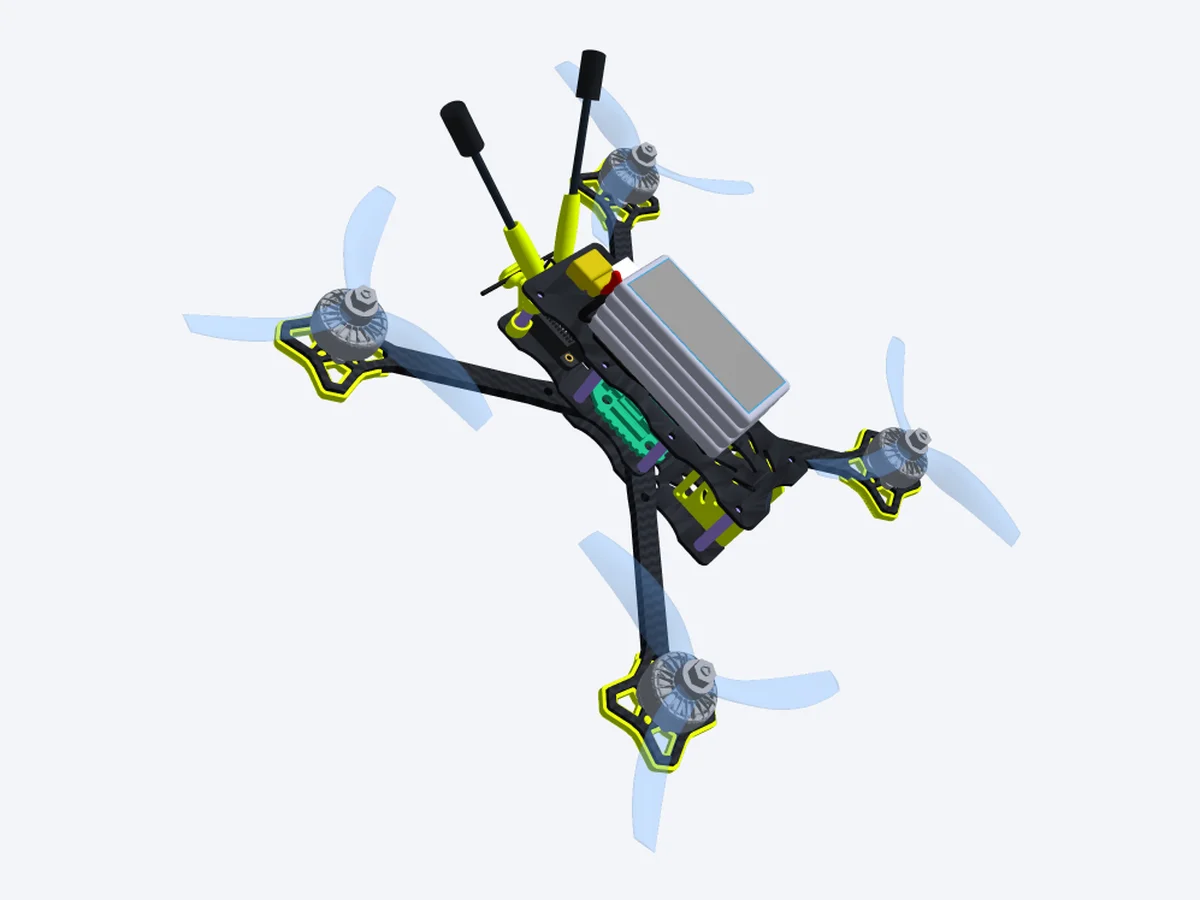
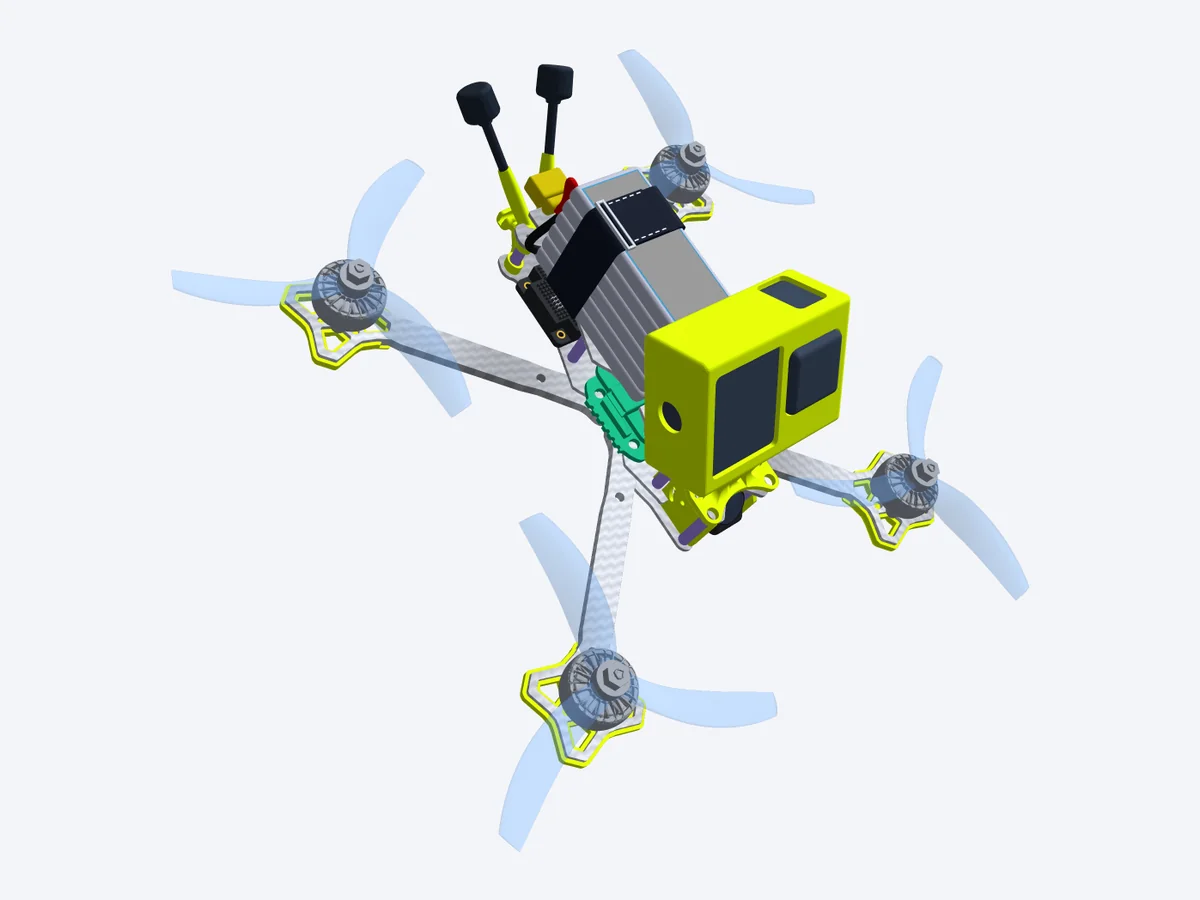
Site : photos avec GoPro, plus de 200 chassis

Changed region(s): [[0.1233, 0.0311, 0.8633, 0.9644]]

diff --git a/index.html b/index.html
@@ -118,7 +118,7 @@
       </div>
       <div class="chiffres">
         <div><b>1 000+</b><span>Composants réels à configurer</span></div>
-        <div><b>187</b><span>Châssis du classeur en 3D, avec plan coté</span></div>
+        <div><b>200+</b><span>Châssis en 3D, avec plan coté</span></div>
         <div><b>Vols réels</b><span>Calculs calés sur GPS et blackbox</span></div>
         <div><b>Calculateur</b><span>Formules physiques : poussée, traînée, vitesse, autonomie, intensités</span></div>
         <div><b>Garage</b><span>Vos configurations comparées côte à côte</span></div>
@@ -342,9 +342,9 @@
     <div class="fonction inverse">
       <div>
         <span class="badge">Châssis du classeur</span>
-        <h3>187 châssis en 3D, équipés et cotés</h3>
+        <h3>Plus de 200 châssis en 3D, équipés et cotés</h3>
         <ul>
-          <li><b>187 châssis du catalogue</b> en 3D, prêts à équiper.</li>
+          <li><b>Plus de 200 châssis</b> en 3D, prêts à équiper : 187 du catalogue, plus les châssis de référence TALKTRUE et les prototypes réglables.</li>
           <li><b>Composez votre drone</b> : moteurs, hélices, stack, VTX, caméra, récepteur, antennes, GPS, batterie, buzzer et condensateur se placent tout seuls.</li>
           <li><b>Accessoires des châssis</b> : supports de caméra, d'antenne et de condensateur, comme sur le Bando.</li>
           <li><b>Plan 2D coté (DXF)</b> à télécharger pour votre CAO.</li>
@@ -355,8 +355,8 @@
         <figure class="visuel"><img src="assets/guide/generique_equipe.webp" width="1200" height="900" loading="lazy" alt="Châssis générique du classeur équipé en 3D : électronique entre les plaques, batterie sur sa mousse"><figcaption>Générique équipé de vos composants</figcaption></figure>
         <figure class="visuel"><img src="assets/guide/generique_plan_cote.webp" width="1592" height="720" loading="lazy" alt="Plan 2D coté DXF d'un châssis générique"><figcaption>Plan 2D coté, prêt pour la CAO</figcaption></figure>
         <div class="duo" style="margin-top:14px">
-          <figure class="visuel"><img src="assets/nouveautes/bando_accessoires.webp" width="1200" height="900" loading="lazy" alt="Bando 5 pouces équipé en 3D : supports de caméra, support d'antenne et électronique"><figcaption>Bando 5″ équipé</figcaption></figure>
-          <figure class="visuel"><img src="assets/nouveautes/buzzer_condensateur.webp" width="1200" height="900" loading="lazy" alt="Bando 5 pouces vu de l'arrière : support d'antenne, électronique et batterie"><figcaption>Bando vu de l'arrière</figcaption></figure>
+          <figure class="visuel"><img src="assets/nouveautes/bando_accessoires.webp" width="1200" height="900" loading="lazy" alt="Bando 5 pouces équipé en 3D, châssis gris : GoPro sur son support, caméra DJI O4 dans ses supports, VTX, antennes et batterie LiPo 6S tenue par sa sangle"><figcaption>Bando 5″ équipé</figcaption></figure>
+          <figure class="visuel"><img src="assets/nouveautes/buzzer_condensateur.webp" width="1200" height="900" loading="lazy" alt="Bando 5 pouces vu de l'arrière, châssis gris : GoPro, support d'antenne, électronique et batterie LiPo tenue par sa sangle"><figcaption>Bando vu de l'arrière</figcaption></figure>
         </div>
       </div>
     </div>
@@ -371,8 +371,8 @@
         </ul>
       </div>
       <div class="duo">
-        <figure class="visuel"><img src="assets/guide/proto_plaques_towa.webp" width="1200" height="900" loading="lazy" alt="Prototype généré avec plaques au style du TOWA"><figcaption>Plaques style TOWA</figcaption></figure>
-        <figure class="visuel"><img src="assets/guide/proto_plaques_dessous.webp" width="1200" height="900" loading="lazy" alt="Dessous du prototype : perçages de stack et de VTX"><figcaption>Perçages stack et VTX</figcaption></figure>
+        <figure class="visuel"><img src="assets/guide/proto_plaques_towa.webp" width="1200" height="900" loading="lazy" alt="Prototype X généré, châssis gris, plaques au style du TOWA : GoPro sur son support, caméra DJI O4, VTX, antennes et batterie LiPo 6S tenue par sa sangle"><figcaption>Plaques style TOWA</figcaption></figure>
+        <figure class="visuel"><img src="assets/guide/proto_cinewhoop.webp" width="1200" height="900" loading="lazy" alt="Cinewhoop prototype en 3D, châssis gris et standoffs TPU jaunes : GoPro sur son support, caméra et VTX DJI O4 Lite, antennes et batterie LiPo 4S tenue par sa sangle"><figcaption>Cinewhoop prototype</figcaption></figure>
       </div>
     </div>
 

diff --git a/en/index.html b/en/index.html
@@ -117,7 +117,7 @@
       </div>
       <div class="chiffres">
         <div><b>1,000+</b><span>Real components to configure</span></div>
-        <div><b>187</b><span>Catalogue frames in 3D, with dimensioned drawing</span></div>
+        <div><b>200+</b><span>Frames in 3D, with dimensioned drawing</span></div>
         <div><b>Real flights</b><span>Calibrated on GPS and blackbox data</span></div>
         <div><b>Calculator</b><span>Physics formulas: thrust, drag, speed, flight time, currents</span></div>
         <div><b>Garage</b><span>Your builds compared side by side</span></div>
@@ -340,9 +340,9 @@
     <div class="fonction inverse">
       <div>
         <span class="badge">Catalogue frames</span>
-        <h3>187 frames in 3D, fitted out and dimensioned</h3>
+        <h3>200+ frames in 3D, fitted out and dimensioned</h3>
         <ul>
-          <li><b>187 catalogue frames</b> in 3D, ready to fit out.</li>
+          <li><b>200+ frames</b> in 3D, ready to fit out: 187 from the catalogue, plus the TALKTRUE reference frames and adjustable prototypes.</li>
           <li><b>Build your quad</b>: motors, props, stack, VTX, camera, receiver, antennas, GPS, battery, buzzer and capacitor place themselves.</li>
           <li><b>Frame accessories</b>: camera, antenna and capacitor mounts, as on the Bando.</li>
           <li><b>Dimensioned 2D drawing (DXF)</b> to download for your CAD.</li>
@@ -353,8 +353,8 @@
         <figure class="visuel"><img src="../assets/guide/generique_equipe.webp" width="1200" height="900" loading="lazy" alt="Catalogue frame fitted out in 3D"><figcaption>Generic frame with your parts</figcaption></figure>
         <figure class="visuel"><img src="../assets/guide/generique_plan_cote.webp" width="1592" height="720" loading="lazy" alt="Dimensioned DXF drawing of a generic frame"><figcaption>Dimensioned 2D drawing</figcaption></figure>
         <div class="duo" style="margin-top:14px">
-          <figure class="visuel"><img src="../assets/nouveautes/bando_accessoires.webp" width="1200" height="900" loading="lazy" alt="Bando 5-inch fitted out in 3D: camera mounts, antenna mount and electronics"><figcaption>Bando 5″ fitted out</figcaption></figure>
-          <figure class="visuel"><img src="../assets/nouveautes/buzzer_condensateur.webp" width="1200" height="900" loading="lazy" alt="Bando 5-inch seen from the rear: antenna mount, electronics and battery"><figcaption>Bando from the rear</figcaption></figure>
+          <figure class="visuel"><img src="../assets/nouveautes/bando_accessoires.webp" width="1200" height="900" loading="lazy" alt="Bando 5-inch fitted out in 3D, grey frame: GoPro on its mount, DJI O4 camera in its mounts, VTX, antennas and 6S LiPo held by its strap"><figcaption>Bando 5″ fitted out</figcaption></figure>
+          <figure class="visuel"><img src="../assets/nouveautes/buzzer_condensateur.webp" width="1200" height="900" loading="lazy" alt="Bando 5-inch seen from the rear, grey frame: GoPro, antenna mount, electronics and LiPo held by its strap"><figcaption>Bando from the rear</figcaption></figure>
         </div>
       </div>
     </div>
